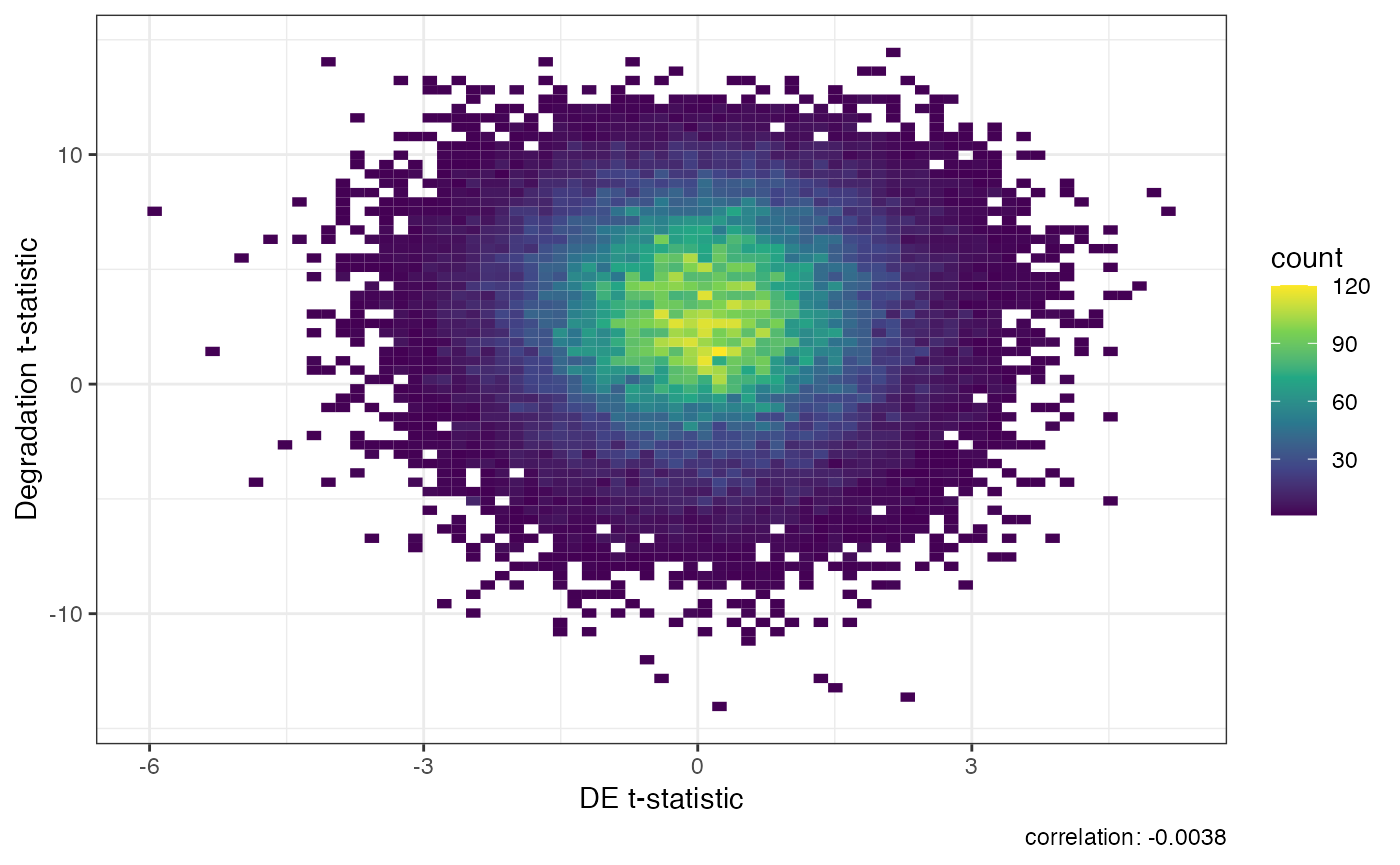
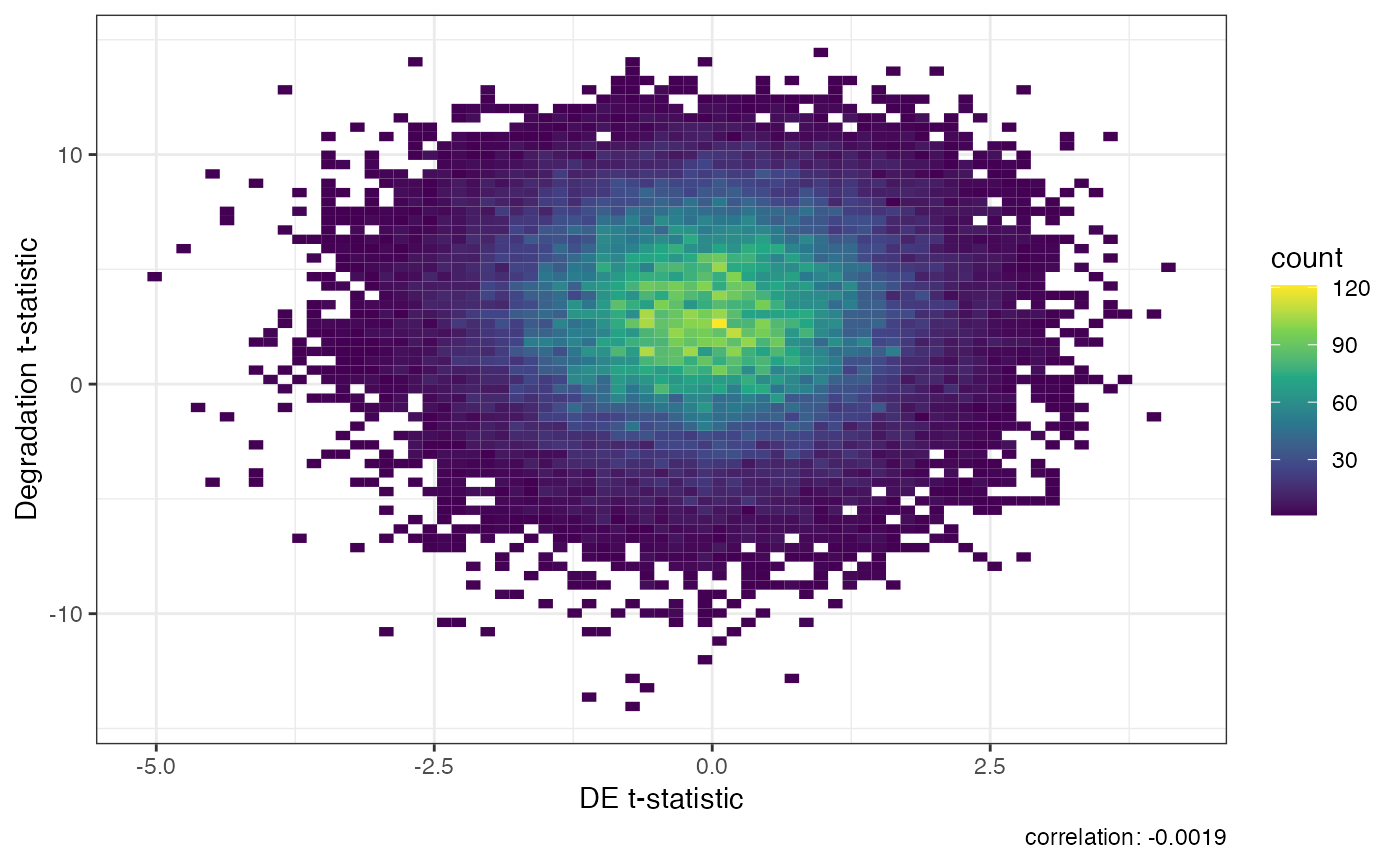
Built site for qsvaRPkgDemo: 0.99.0@

diff --git a/articles/qsvaRPkgDemo.html b/articles/qsvaRPkgDemo.html
@@ -613,31 +613,32 @@ functions. <code><a href="https://rdrr.io/pkg/qsvaR/man/getDegTx.html" class="ex
 transcripts from a given experiment, and provides a warning if the mean
 expression level of these transcripts is low.</p>
 <div class="sourceCode" id="cb9"><pre class="downlit sourceCode r">
-<code class="sourceCode R"><span><span class="co">## Next we get the degraded transcripts for qSVA from the "cell_component"</span></span>
-<span><span class="co">## model</span></span>
+<code class="sourceCode R"><span><span class="co">## Subset the rse_tx object by DLPFC region</span></span>
+<span><span class="va">rse_tx</span> <span class="op">&lt;-</span> <span class="va">rse_tx</span><span class="op">[</span>, <span class="va">rse_tx</span><span class="op">$</span><span class="va">Region</span> <span class="op">==</span> <span class="st">"DLPFC"</span><span class="op">]</span></span>
+<span><span class="co">## Next we get the degraded transcripts for qSVA from the "cell_component" model</span></span>
 <span><span class="va">DegTx</span> <span class="op">&lt;-</span> <span class="fu"><a href="https://rdrr.io/pkg/qsvaR/man/getDegTx.html" class="external-link">getDegTx</a></span><span class="op">(</span><span class="va">rse_tx</span>, type <span class="op">=</span> <span class="st">"cell_component"</span><span class="op">)</span></span>
 <span><span class="fu"><a href="https://rdrr.io/r/base/dim.html" class="external-link">dim</a></span><span class="op">(</span><span class="va">DegTx</span><span class="op">)</span></span>
-<span><span class="co">#&gt; [1] 2976  900</span></span></code></pre></div>
+<span><span class="co">#&gt; [1] 2976  453</span></span></code></pre></div>
 <p>The <code><a href="https://rdrr.io/pkg/qsvaR/man/getPCs.html" class="external-link">getPCs()</a></code> applies PCA using the <code>prcomp</code>
 function.</p>
 <div class="sourceCode" id="cb10"><pre class="downlit sourceCode r">
 <code class="sourceCode R"><span><span class="co">## Now we can compute the Principal Components (PCs) of the degraded transcripts</span></span>
 <span><span class="va">pcTx</span> <span class="op">&lt;-</span> <span class="fu"><a href="https://rdrr.io/pkg/qsvaR/man/getPCs.html" class="external-link">getPCs</a></span><span class="op">(</span><span class="va">DegTx</span>, <span class="st">"tpm"</span><span class="op">)</span></span>
 <span><span class="fu"><a href="https://rdrr.io/r/utils/head.html" class="external-link">head</a></span><span class="op">(</span><span class="va">pcTx</span><span class="op">$</span><span class="va">x</span><span class="op">)</span><span class="op">[</span>, <span class="fl">1</span><span class="op">:</span><span class="fl">10</span><span class="op">]</span></span>
-<span><span class="co">#&gt;               PC1       PC2        PC3        PC4        PC5        PC6</span></span>
-<span><span class="co">#&gt; R10424 -20.659438 7.9637675  -4.828472 17.2108401 -5.0581402  8.2623866</span></span>
-<span><span class="co">#&gt; R12195   1.174567 2.1863270  -9.775701  3.5658286 -1.1826089  2.3970804</span></span>
-<span><span class="co">#&gt; R12198  11.993004 1.0481054 -12.253723  4.8569224  0.4069927  0.5299095</span></span>
-<span><span class="co">#&gt; R12199  11.179790 1.7420421 -13.288738  5.2699068  0.4773046  3.3469337</span></span>
-<span><span class="co">#&gt; R12200 -18.301492 3.2010989  -0.126475  7.4569122 -2.9512052 -0.5801785</span></span>
-<span><span class="co">#&gt; R12258   4.166616 0.6041488  -4.987586  0.9757591 11.6405818  4.3369447</span></span>
-<span><span class="co">#&gt;              PC7       PC8        PC9       PC10</span></span>
-<span><span class="co">#&gt; R10424  1.321221 -1.808477  5.4520795 -0.5415210</span></span>
-<span><span class="co">#&gt; R12195 -4.613346  4.650102  2.8022180  0.7460759</span></span>
-<span><span class="co">#&gt; R12198  4.341520 -3.972343  0.8805966 -0.7144335</span></span>
-<span><span class="co">#&gt; R12199 -1.505125  1.008122  3.3264594  2.6494604</span></span>
-<span><span class="co">#&gt; R12200 -3.112759  6.192132  7.6013546  4.6718215</span></span>
-<span><span class="co">#&gt; R12258 -0.528728 -9.687213 -2.4068896  1.0984762</span></span></code></pre></div>
+<span><span class="co">#&gt;               PC1       PC2        PC3       PC4       PC5        PC6       PC7</span></span>
+<span><span class="co">#&gt; R10424 -18.609350  5.654972 -10.521455 11.383754 -5.720547 11.1699710 -4.914021</span></span>
+<span><span class="co">#&gt; R12195   4.238017 -3.434001  -5.301963  0.755135 -3.632545  5.0044620  2.355794</span></span>
+<span><span class="co">#&gt; R12198  15.009249 -6.268986  -6.003985  4.821451 -1.488256  1.3719040 -5.349268</span></span>
+<span><span class="co">#&gt; R12199  14.392927 -6.370502  -6.480586  3.787386 -4.982039  4.7914737 -1.066185</span></span>
+<span><span class="co">#&gt; R12200 -15.654543  2.845852  -2.273977  3.961545  2.944993  9.3164761  1.634647</span></span>
+<span><span class="co">#&gt; R12258   7.109071 -4.316821   7.151549  5.239148 -7.744696 -0.9355408 -1.879552</span></span>
+<span><span class="co">#&gt;               PC8         PC9       PC10</span></span>
+<span><span class="co">#&gt; R10424 -0.1833597  0.02920567 -1.6005800</span></span>
+<span><span class="co">#&gt; R12195 -5.5289264 -1.96673143 -0.1303645</span></span>
+<span><span class="co">#&gt; R12198  2.8738392 -0.64170546 -1.3889163</span></span>
+<span><span class="co">#&gt; R12199 -2.7378677  2.26850143  1.8711155</span></span>
+<span><span class="co">#&gt; R12200 -9.1117425 -2.32982944  3.6057435</span></span>
+<span><span class="co">#&gt; R12258  8.1395165 -2.19594082 -0.7708335</span></span></code></pre></div>
 <p>We use a model matrix that accounts for relevant variables (Charity
 et al., 2020). We include variables such as Age, Sex, Race, and Region
 in this model. Our dataset, <code>DegTx</code>, a
@@ -663,14 +664,15 @@ features).</p>
 <p>Let’s understand this step by step:</p>
 <div class="sourceCode" id="cb11"><pre class="downlit sourceCode r">
 <code class="sourceCode R"><span><span class="co"># Creates a model matrix for regression analysis using the predictors Dx, Age, Sex, Race, and Region from the column data of the rse_tx object.</span></span>
-<span><span class="va">mod</span> <span class="op">&lt;-</span> <span class="fu"><a href="https://rdrr.io/r/stats/model.matrix.html" class="external-link">model.matrix</a></span><span class="op">(</span><span class="op">~</span> <span class="va">Dx</span> <span class="op">+</span> <span class="va">Age</span> <span class="op">+</span> <span class="va">Sex</span> <span class="op">+</span> <span class="va">Race</span> <span class="op">+</span> <span class="va">Region</span>,</span>
+<span><span class="va">rse_tx</span><span class="op">$</span><span class="va">Dx</span> <span class="op">&lt;-</span> <span class="fu"><a href="https://rdrr.io/r/base/factor.html" class="external-link">as.factor</a></span><span class="op">(</span><span class="va">rse_tx</span><span class="op">$</span><span class="va">Dx</span><span class="op">)</span></span>
+<span><span class="va">mod</span> <span class="op">&lt;-</span> <span class="fu"><a href="https://rdrr.io/r/stats/model.matrix.html" class="external-link">model.matrix</a></span><span class="op">(</span><span class="op">~</span> <span class="va">Dx</span> <span class="op">+</span> <span class="va">Age</span> <span class="op">+</span> <span class="va">Sex</span> <span class="op">+</span> <span class="va">Race</span>,</span>
 <span>    data <span class="op">=</span> <span class="fu"><a href="https://rdrr.io/pkg/SummarizedExperiment/man/SummarizedExperiment-class.html" class="external-link">colData</a></span><span class="op">(</span><span class="va">rse_tx</span><span class="op">)</span></span>
 <span><span class="op">)</span></span>
 <span></span>
 <span><span class="co"># check the names of the columns in the mod matrix</span></span>
 <span><span class="fu"><a href="https://rdrr.io/r/base/colnames.html" class="external-link">colnames</a></span><span class="op">(</span><span class="va">mod</span><span class="op">)</span></span>
 <span><span class="co">#&gt; [1] "(Intercept)" "DxSchizo"    "Age"         "SexM"        "RaceAS"     </span></span>
-<span><span class="co">#&gt; [6] "RaceCAUC"    "RaceHISP"    "RegionHIPPO"</span></span></code></pre></div>
+<span><span class="co">#&gt; [6] "RaceCAUC"    "RaceHISP"</span></span></code></pre></div>
 <p>The <code><a href="https://rdrr.io/pkg/qsvaR/man/k_qsvs.html" class="external-link">k_qsvs()</a></code> function is employed to determine the
 required number of Principal Components (PCs) needed to capture the
 underlying variation in our data.</p>
@@ -679,7 +681,7 @@ underlying variation in our data.</p>
 <span><span class="fu"><a href="https://rdrr.io/r/base/Random.html" class="external-link">set.seed</a></span><span class="op">(</span><span class="fl">20230703</span><span class="op">)</span></span>
 <span><span class="va">k</span> <span class="op">&lt;-</span> <span class="fu"><a href="https://rdrr.io/pkg/qsvaR/man/k_qsvs.html" class="external-link">k_qsvs</a></span><span class="op">(</span><span class="va">DegTx</span>, <span class="va">mod</span>, <span class="st">"tpm"</span><span class="op">)</span></span>
 <span><span class="fu"><a href="https://rdrr.io/r/base/print.html" class="external-link">print</a></span><span class="op">(</span><span class="va">k</span><span class="op">)</span></span>
-<span><span class="co">#&gt; [1] 34</span></span></code></pre></div>
+<span><span class="co">#&gt; [1] 25</span></span></code></pre></div>
 </div>
 <div class="section level4">
 <h4 id="run-qsva-using-the-qsva-wrapper-function">Run qSVA using the qSVA wrapper function<a class="anchor" aria-label="anchor" href="#run-qsva-using-the-qsva-wrapper-function"></a>
@@ -693,7 +695,7 @@ step.</p>
 <span><span class="fu"><a href="https://rdrr.io/r/base/Random.html" class="external-link">set.seed</a></span><span class="op">(</span><span class="fl">20230703</span><span class="op">)</span></span>
 <span><span class="va">qsva_pcs_cc</span> <span class="op">&lt;-</span> <span class="fu"><a href="https://rdrr.io/pkg/qsvaR/man/qSVA.html" class="external-link">qSVA</a></span><span class="op">(</span><span class="va">rse_tx</span>, type <span class="op">=</span> <span class="st">"cell_component"</span>, mod <span class="op">=</span> <span class="va">mod</span>, assayname <span class="op">=</span> <span class="st">"tpm"</span><span class="op">)</span></span>
 <span><span class="fu"><a href="https://rdrr.io/r/base/dim.html" class="external-link">dim</a></span><span class="op">(</span><span class="va">qsva_pcs_cc</span><span class="op">)</span></span>
-<span><span class="co">#&gt; [1] 900  34</span></span></code></pre></div>
+<span><span class="co">#&gt; [1] 453  25</span></span></code></pre></div>
 </div>
 </div>
 <div class="section level3">
@@ -732,7 +734,6 @@ fitted model object that contains several components, including
 <code class="sourceCode R"><span><span class="co">## Extract the transcript expression values and put them in the</span></span>
 <span><span class="co">## log2(TPM + 0.5) scale</span></span>
 <span><span class="va">txExprs</span> <span class="op">&lt;-</span> <span class="fu"><a href="https://rdrr.io/r/base/Log.html" class="external-link">log2</a></span><span class="op">(</span><span class="fu"><a href="https://rdrr.io/pkg/SummarizedExperiment/man/SummarizedExperiment-class.html" class="external-link">assays</a></span><span class="op">(</span><span class="va">rse_tx</span><span class="op">)</span><span class="op">$</span><span class="va">tpm</span> <span class="op">+</span> <span class="fl">0.5</span><span class="op">)</span></span>
-<span></span>
 <span><span class="co">## Run the standard linear model for differential expression</span></span>
 <span><span class="va">fitTx</span> <span class="op">&lt;-</span> <span class="fu"><a href="https://rdrr.io/pkg/limma/man/lmFit.html" class="external-link">lmFit</a></span><span class="op">(</span><span class="va">txExprs</span>, <span class="va">mod_qSVA</span><span class="op">)</span></span>
 <span><span class="va">eBTx</span> <span class="op">&lt;-</span> <span class="fu"><a href="https://rdrr.io/pkg/limma/man/ebayes.html" class="external-link">eBayes</a></span><span class="op">(</span><span class="va">fitTx</span><span class="op">)</span></span></code></pre></div>
@@ -755,14 +756,12 @@ your experiment.</p>
 <code class="sourceCode R"><span><span class="co"># Get the comparison names from the fitted model 'eBTx'</span></span>
 <span><span class="fu"><a href="https://rdrr.io/r/base/colnames.html" class="external-link">colnames</a></span><span class="op">(</span><span class="va">eBTx</span><span class="op">)</span></span>
 <span><span class="co">#&gt;  [1] "(Intercept)" "DxSchizo"    "Age"         "SexM"        "RaceAS"     </span></span>
-<span><span class="co">#&gt;  [6] "RaceCAUC"    "RaceHISP"    "RegionHIPPO" "qSV1"        "qSV2"       </span></span>
-<span><span class="co">#&gt; [11] "qSV3"        "qSV4"        "qSV5"        "qSV6"        "qSV7"       </span></span>
-<span><span class="co">#&gt; [16] "qSV8"        "qSV9"        "qSV10"       "qSV11"       "qSV12"      </span></span>
-<span><span class="co">#&gt; [21] "qSV13"       "qSV14"       "qSV15"       "qSV16"       "qSV17"      </span></span>
-<span><span class="co">#&gt; [26] "qSV18"       "qSV19"       "qSV20"       "qSV21"       "qSV22"      </span></span>
-<span><span class="co">#&gt; [31] "qSV23"       "qSV24"       "qSV25"       "qSV26"       "qSV27"      </span></span>
-<span><span class="co">#&gt; [36] "qSV28"       "qSV29"       "qSV30"       "qSV31"       "qSV32"      </span></span>
-<span><span class="co">#&gt; [41] "qSV33"       "qSV34"</span></span></code></pre></div>
+<span><span class="co">#&gt;  [6] "RaceCAUC"    "RaceHISP"    "qSV1"        "qSV2"        "qSV3"       </span></span>
+<span><span class="co">#&gt; [11] "qSV4"        "qSV5"        "qSV6"        "qSV7"        "qSV8"       </span></span>
+<span><span class="co">#&gt; [16] "qSV9"        "qSV10"       "qSV11"       "qSV12"       "qSV13"      </span></span>
+<span><span class="co">#&gt; [21] "qSV14"       "qSV15"       "qSV16"       "qSV17"       "qSV18"      </span></span>
+<span><span class="co">#&gt; [26] "qSV19"       "qSV20"       "qSV21"       "qSV22"       "qSV23"      </span></span>
+<span><span class="co">#&gt; [31] "qSV24"       "qSV25"</span></span></code></pre></div>
 <p>Let’s extract the differential expression results.</p>
 <div class="sourceCode" id="cb17"><pre class="downlit sourceCode r">
 <code class="sourceCode R"><span><span class="co">## Extract the differential expression results</span></span>
@@ -778,20 +777,20 @@ specific term.</p>
 <div class="sourceCode" id="cb18"><pre class="downlit sourceCode r">
 <code class="sourceCode R"><span><span class="co">## Explore the top results</span></span>
 <span><span class="fu"><a href="https://rdrr.io/r/utils/head.html" class="external-link">head</a></span><span class="op">(</span><span class="va">sigTx</span><span class="op">)</span></span>
-<span><span class="co">#&gt;                         logFC   AveExpr         t      P.Value    adj.P.Val</span></span>
-<span><span class="co">#&gt; ENST00000553142.5 -0.07856532 1.8375128 -5.990119 3.080853e-09 0.0006102954</span></span>
-<span><span class="co">#&gt; ENST00000552074.5 -0.14813543 2.2715574 -5.303696 1.444403e-07 0.0143063075</span></span>
-<span><span class="co">#&gt; ENST00000373510.8  0.04836527 1.0493713  5.106990 4.033212e-07 0.0266317021</span></span>
-<span><span class="co">#&gt; ENST00000510632.1  0.12184169 0.4263786  4.981105 7.643443e-07 0.0322151740</span></span>
-<span><span class="co">#&gt; ENST00000530589.1 -0.11715403 2.2714701 -4.968773 8.131326e-07 0.0322151740</span></span>
-<span><span class="co">#&gt; ENST00000549117.5 -0.11552746 1.9281660 -4.910548 1.087037e-06 0.0358890854</span></span>
-<span><span class="co">#&gt;                           B</span></span>
-<span><span class="co">#&gt; ENST00000553142.5 10.519940</span></span>
-<span><span class="co">#&gt; ENST00000552074.5  6.817471</span></span>
-<span><span class="co">#&gt; ENST00000373510.8  5.833975</span></span>
-<span><span class="co">#&gt; ENST00000510632.1  5.222922</span></span>
-<span><span class="co">#&gt; ENST00000530589.1  5.163833</span></span>
-<span><span class="co">#&gt; ENST00000549117.5  4.886725</span></span></code></pre></div>
+<span><span class="co">#&gt;                         logFC    AveExpr         t      P.Value adj.P.Val</span></span>
+<span><span class="co">#&gt; ENST00000509833.1 -0.19793326  1.6039735 -4.984710 9.075361e-07 0.1797765</span></span>
+<span><span class="co">#&gt; ENST00000206423.7 -0.05451499  1.1566859 -4.765995 2.590207e-06 0.2005694</span></span>
+<span><span class="co">#&gt; ENST00000596272.5  0.14845134 -0.6480373  4.732048 3.037503e-06 0.2005694</span></span>
+<span><span class="co">#&gt; ENST00000518335.2  0.09767838 -0.5550917  4.631073 4.851566e-06 0.2221915</span></span>
+<span><span class="co">#&gt; ENST00000553503.5 -0.30153792  1.0366885 -4.582705 6.053531e-06 0.2221915</span></span>
+<span><span class="co">#&gt; ENST00000416708.1  0.07597952 -0.9207563  4.559409 6.729914e-06 0.2221915</span></span>
+<span><span class="co">#&gt;                          B</span></span>
+<span><span class="co">#&gt; ENST00000509833.1 5.237794</span></span>
+<span><span class="co">#&gt; ENST00000206423.7 4.243017</span></span>
+<span><span class="co">#&gt; ENST00000596272.5 4.092195</span></span>
+<span><span class="co">#&gt; ENST00000518335.2 3.649307</span></span>
+<span><span class="co">#&gt; ENST00000553503.5 3.440212</span></span>
+<span><span class="co">#&gt; ENST00000416708.1 3.340211</span></span></code></pre></div>
 <p>Here’s a breakdown of what each column in this output represents:</p>
 <ul>
 <li><p><strong>logFC (Log Fold Change)</strong>: This represents the
@@ -996,9 +995,9 @@ and Henry, 2023)</li>
 <span><span class="kw"><a href="https://rdrr.io/r/base/library.html" class="external-link">library</a></span><span class="op">(</span><span class="st"><a href="https://yihui.org/knitr/" class="external-link">"knitr"</a></span><span class="op">)</span></span>
 <span><span class="fu"><a href="https://rdrr.io/pkg/knitr/man/knit.html" class="external-link">knit</a></span><span class="op">(</span><span class="st">"qsvaRPkgDemo.Rmd"</span>, tangle <span class="op">=</span> <span class="cn">TRUE</span><span class="op">)</span></span></code></pre></div>
 <p>Date the vignette was generated.</p>
-<pre><code><span><span class="co">#&gt; [1] "2023-07-26 14:13:23 EDT"</span></span></code></pre>
+<pre><code><span><span class="co">#&gt; [1] "2023-07-26 15:09:29 EDT"</span></span></code></pre>
 <p>Wallclock time spent generating the vignette.</p>
-<pre><code><span><span class="co">#&gt; Time difference of 12.946 mins</span></span></code></pre>
+<pre><code><span><span class="co">#&gt; Time difference of 5.404 mins</span></span></code></pre>
 <p><code>R</code> session information.</p>
 <pre><code><span><span class="co">#&gt; <span style="color: #00BBBB; font-weight: bold;">─ Session info ───────────────────────────────────────────────────────────────────────────────────────────────────────</span></span></span>
 <span><span class="co">#&gt;  <span style="color: #555555; font-style: italic;">setting </span> <span style="color: #555555; font-style: italic;">value</span></span></span>
